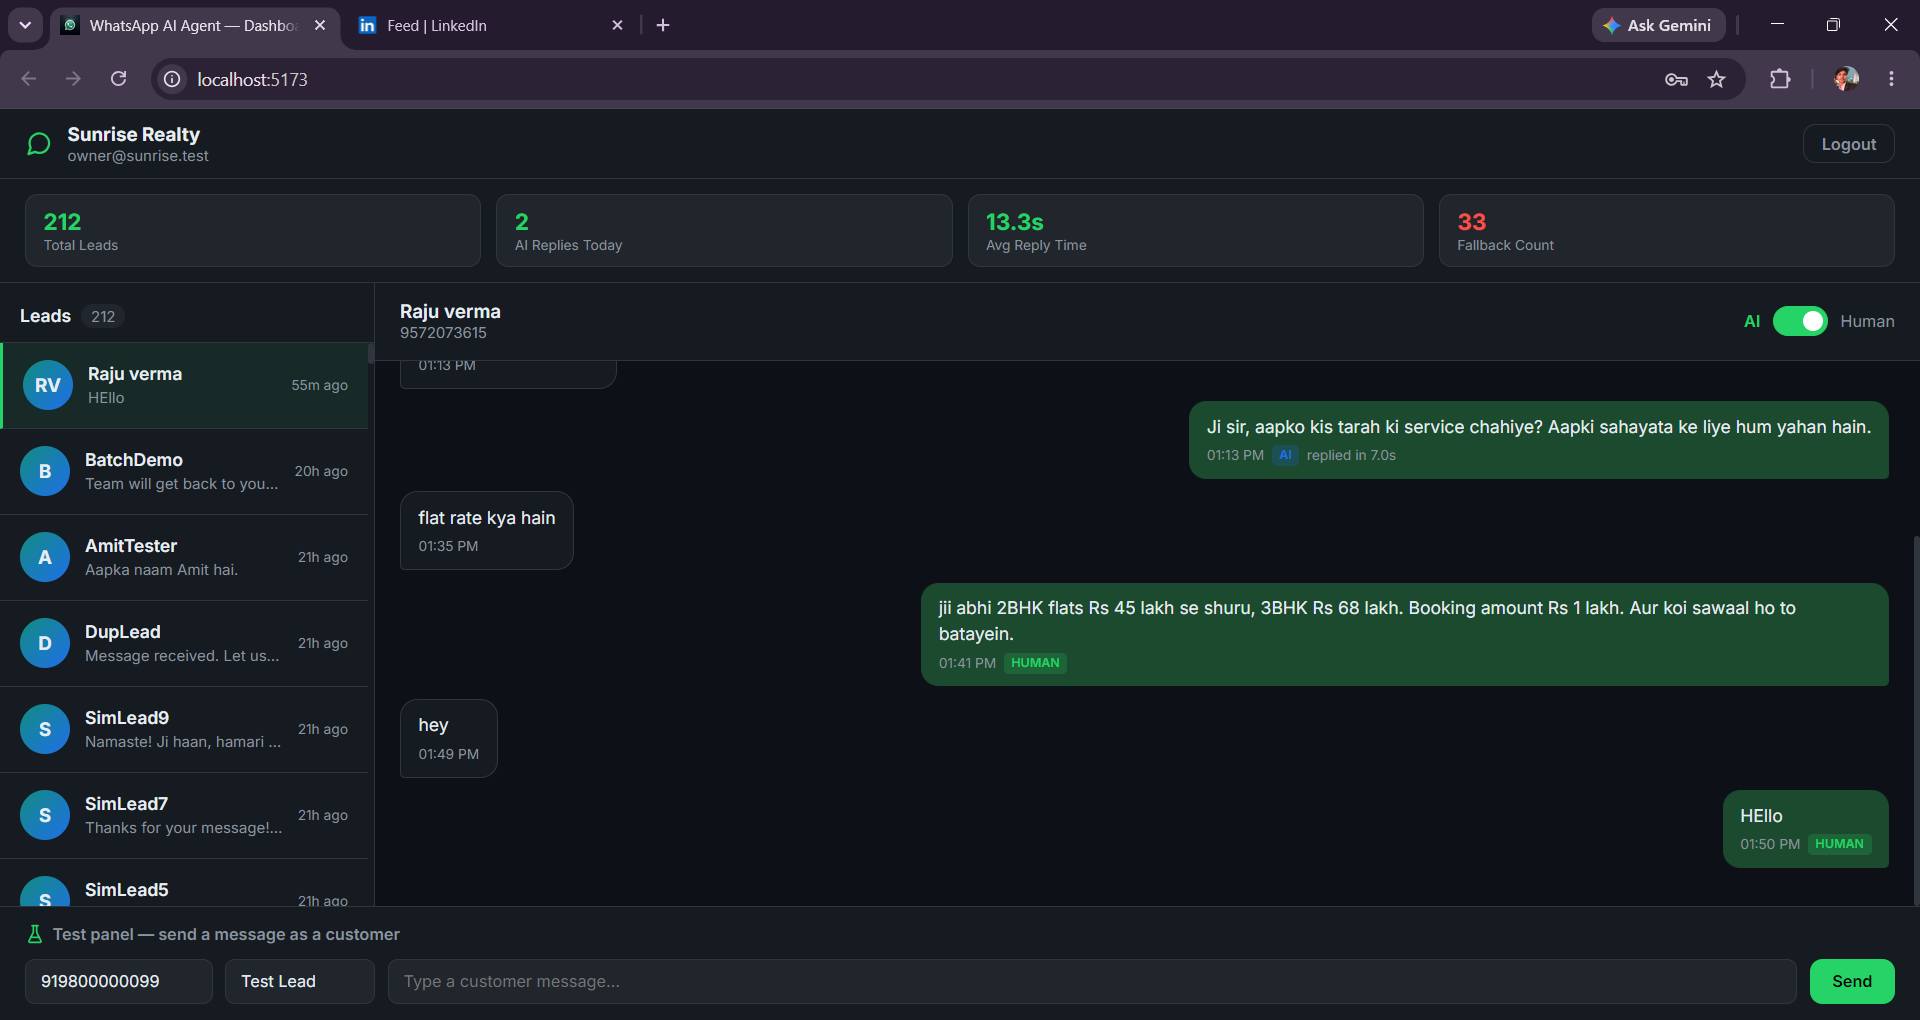
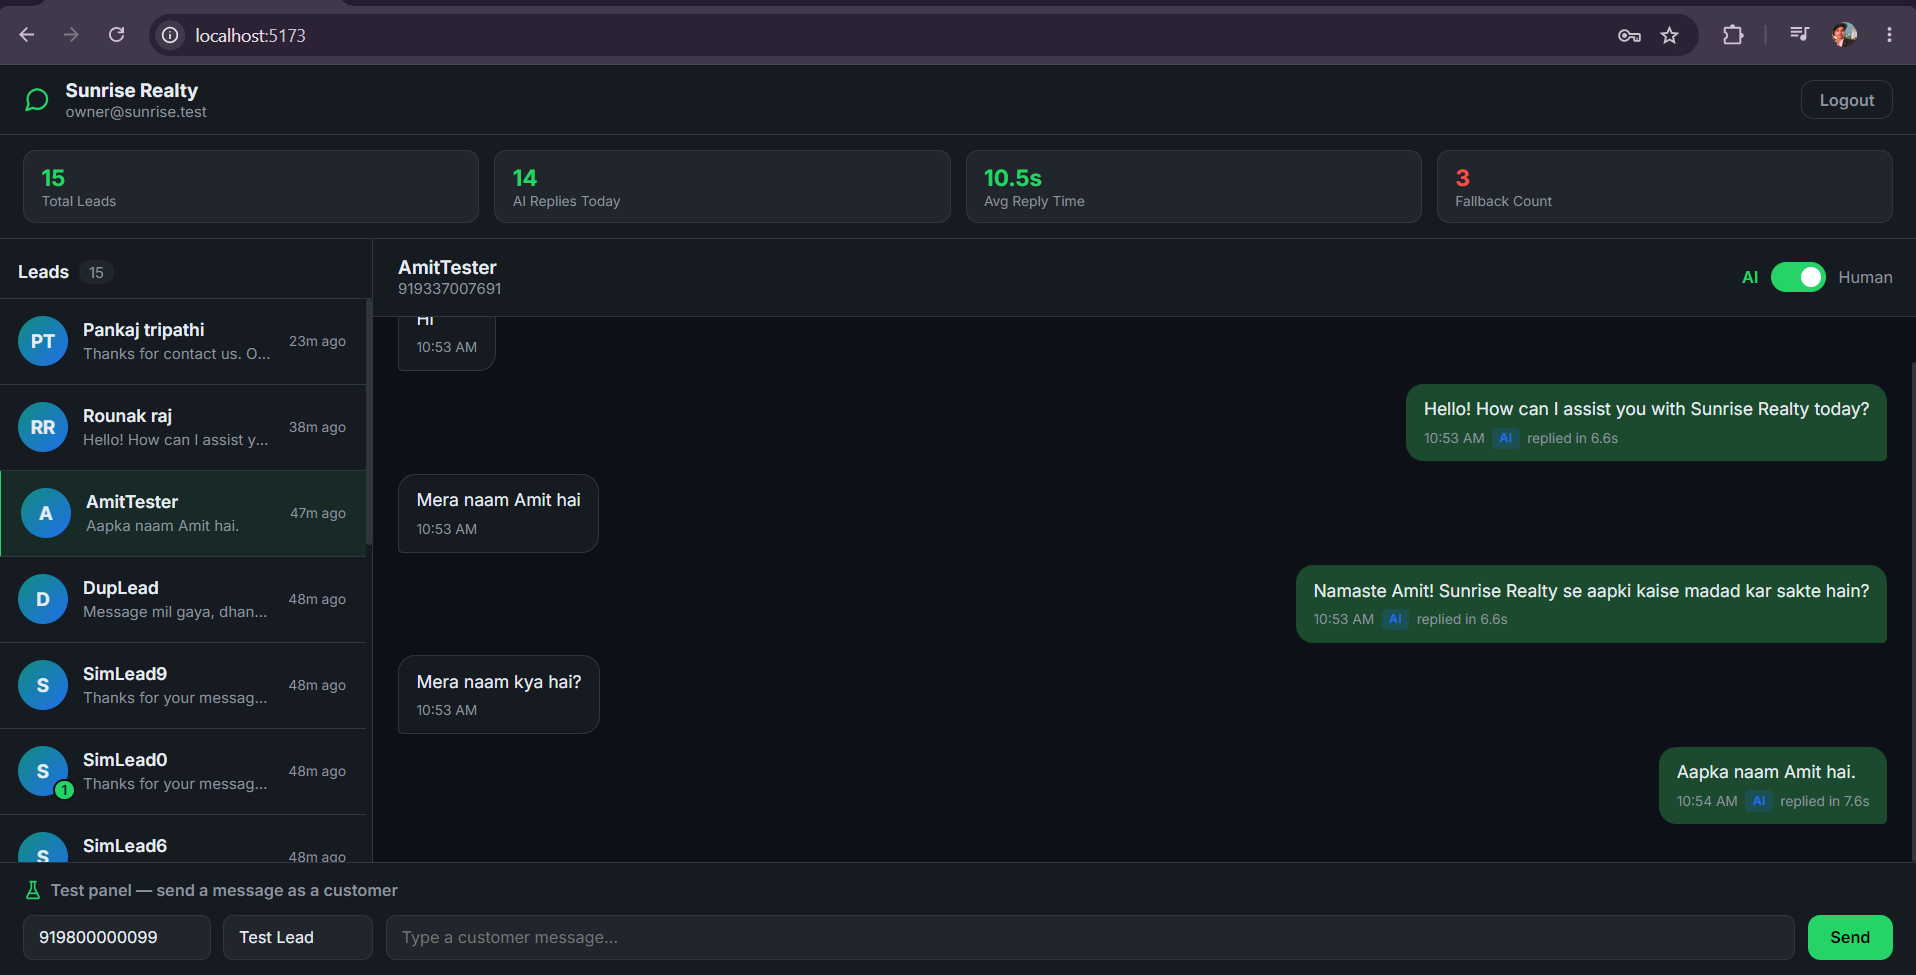
Add WhatsApp-style unread badge, demo video link, updated simulation report

diff --git a/backend/src/routes/lead.routes.js b/backend/src/routes/lead.routes.js
@@ -50,7 +50,16 @@ router.get("/leads", async (req, res) => {
     ]);
     const byLead = new Map(lastMsgs.map((m) => [String(m._id), m]));
 
-    const items = leads.map((l) => {
+    // Unread = customer messages that arrived after the owner last opened this chat
+    const unreadCounts = await Promise.all(
+        leads.map((l) => {
+            const filter = { accountId, leadId: l._id, direction: "in" };
+            if (l.lastOpenedAt) filter.createdAt = { $gt: l.lastOpenedAt };
+            return Message.countDocuments(filter);
+        })
+    );
+
+    const items = leads.map((l, i) => {
         const last = byLead.get(String(l._id));
         return {
             leadId: l._id,
@@ -60,6 +69,7 @@ router.get("/leads", async (req, res) => {
             humanTakeover: !!l.humanTakeover,
             lastMessageText: last ? last.text : "",
             lastMessageAt: (last ? last.at : l.lastMessageAt) || null,
+            unreadCount: unreadCounts[i],
         };
     });
 
@@ -80,6 +90,9 @@ router.get("/leads/:leadId/messages", async (req, res) => {
     const messages = await Message.find({ accountId: req.accountId, leadId: lead._id })
         .sort({ createdAt: 1, _id: 1 })
         .lean();
+
+    // Opening the chat marks everything as read
+    await Lead.updateOne({ _id: lead._id, accountId: req.accountId }, { $set: { lastOpenedAt: new Date() } });
 
     res.json({
         lead: {

diff --git a/frontend/src/pages/Dashboard.jsx b/frontend/src/pages/Dashboard.jsx
@@ -57,6 +57,12 @@ export default function Dashboard({ auth, onLogout }) {
 
     const selectedLead = leads.find(l => (l.leadId || l._id) === selectedId) || null;
 
+    function handleSelect(id) {
+        setSelectedId(id);
+        // Instant clear — server confirms on next poll
+        setLeads(prev => prev.map(l => ((l.leadId || l._id) === id ? { ...l, unreadCount: 0 } : l)));
+    }
+
     return (
         <div className="app">
             <header className="header">
@@ -73,7 +79,7 @@ export default function Dashboard({ auth, onLogout }) {
             <StatsCards stats={stats} />
 
             <div className="body">
-                <LeadsList leads={leads} selectedId={selectedId} onSelect={setSelectedId} />
+                <LeadsList leads={leads} selectedId={selectedId} onSelect={handleSelect} />
                 <div className="right-panel">
                     <ChatWindow
                         lead={selectedLead}

diff --git a/frontend/src/components/LeadList.jsx b/frontend/src/components/LeadList.jsx
@@ -37,7 +37,12 @@ export default function LeadsList({ leads, selectedId, onSelect }) {
                             className={`lead-item ${selectedId === id ? "active" : ""}`}
                             onClick={() => onSelect(id)}
                         >
-                            <div className="lead-avatar">{initials(lead.name)}</div>
+                            <div className="lead-avatar-wrap">
+                                <div className="lead-avatar">{initials(lead.name)}</div>
+                                {lead.unreadCount > 0 && (
+                                    <span className="unread-badge">{lead.unreadCount > 99 ? "99+" : lead.unreadCount}</span>
+                                )}
+                            </div>
                             <div className="lead-info">
                                 <div className="lead-name">
                                     {lead.name || lead.phone}

diff --git a/frontend/src/index.css b/frontend/src/index.css
@@ -292,6 +292,29 @@ body {
     flex-shrink: 0;
 }
 
+.lead-avatar-wrap {
+    position: relative;
+    flex-shrink: 0;
+}
+
+.unread-badge {
+    position: absolute;
+    bottom: -4px;
+    right: -6px;
+    min-width: 18px;
+    height: 18px;
+    padding: 0 5px;
+    border-radius: 9px;
+    background: var(--accent);
+    color: #06281a;
+    font-size: 11px;
+    font-weight: 700;
+    display: grid;
+    place-items: center;
+    border: 2px solid var(--bg);
+    box-sizing: border-box;
+}
+
 .lead-info {
     flex: 1;
     min-width: 0;

diff --git a/backend/src/models/Lead.js b/backend/src/models/Lead.js
@@ -23,6 +23,10 @@ const leadschema = new mongoose.Schema({
 
     lastMessageAt: {
         type: Date
+    },
+
+    lastOpenedAt: {
+        type: Date
     }
 
 

diff --git a/README.md b/README.md
@@ -11,6 +11,14 @@ A WhatsApp CRM backend where incoming customer messages are answered by an AI ag
 | Dashboard (Vite) | `:5173` | `npm run dev` |
 | MongoDB / Redis | `:27017` / `:6379` | `docker compose up -d` |
 
+## 🎬 Demo & submission
+
+| Item | Where |
+|---|---|
+| **Video walkthrough** (~5–6 min: simulation → Test 5 dashboard check → code walkthrough) | [Google Drive](https://drive.google.com/file/d/1p4o9p7a9oTc_7zhTNDlra5hOIufwjcOw/view?usp=sharing) |
+| Simulation report (`npm run simulate`) | [`simulation-report.txt`](simulation-report.txt) |
+| Dashboard screenshots | [`screenshot/`](screenshot/) |
+
 ---
 
 ## 1. Run it — step by step
@@ -277,7 +285,8 @@ From the assignment's bonus list:
 | **Debounce** | 3-second trailing debounce + dedup key `lead-<leadId>`: a lead sending 3 messages within 3 s gets **one combined reply** instead of 3 (see §3) |
 | **Stats cards** | `GET /api/stats` powers the dashboard header: total leads, AI replies today, average reply time, fallback count |
 | **Human reply from dashboard** | With AI OFF for a lead, the owner types a reply in the chat window — saved as `sender:"human"` and written through the mock sender |
+| **Unread badge** | WhatsApp-style green counter on each lead: `unreadCount` = customer messages newer than `lastOpenedAt`; opening the chat marks it read (instantly on click, confirmed on next 3 s poll) |
 
-Dashboard proof: [`screenshot/`](screenshot/) shows all three (stat cards, AI toggle, human replies tagged `HUMAN` in the chat).
+Dashboard proof: [`screenshot/`](screenshot/) shows stat cards, AI toggle, and human replies tagged `HUMAN` in the chat.
 
 
